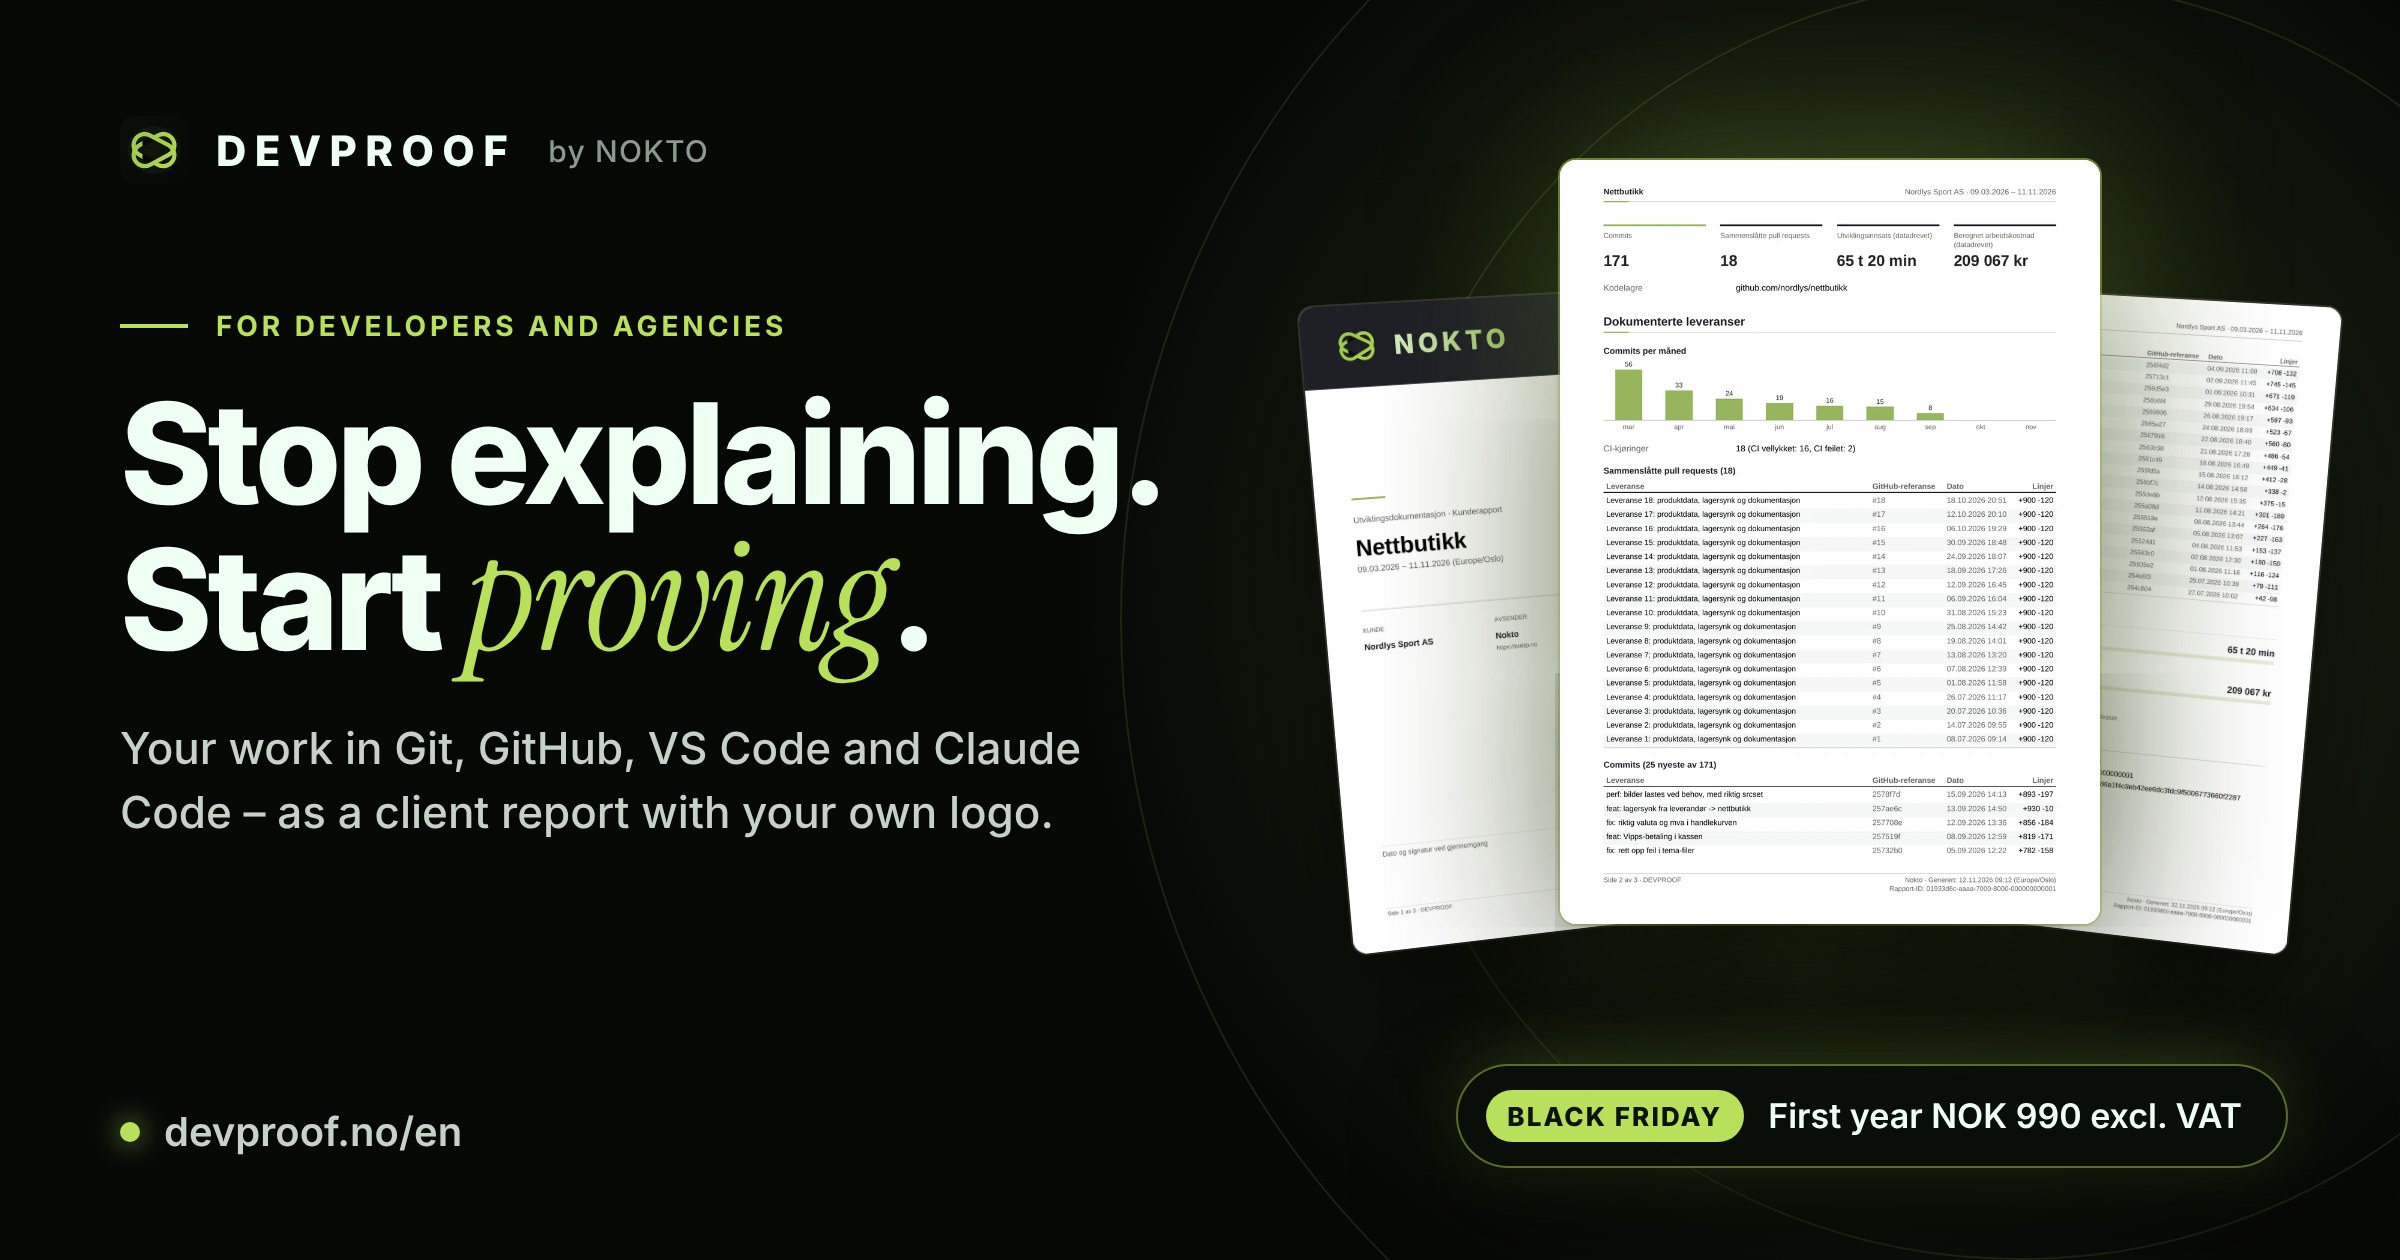
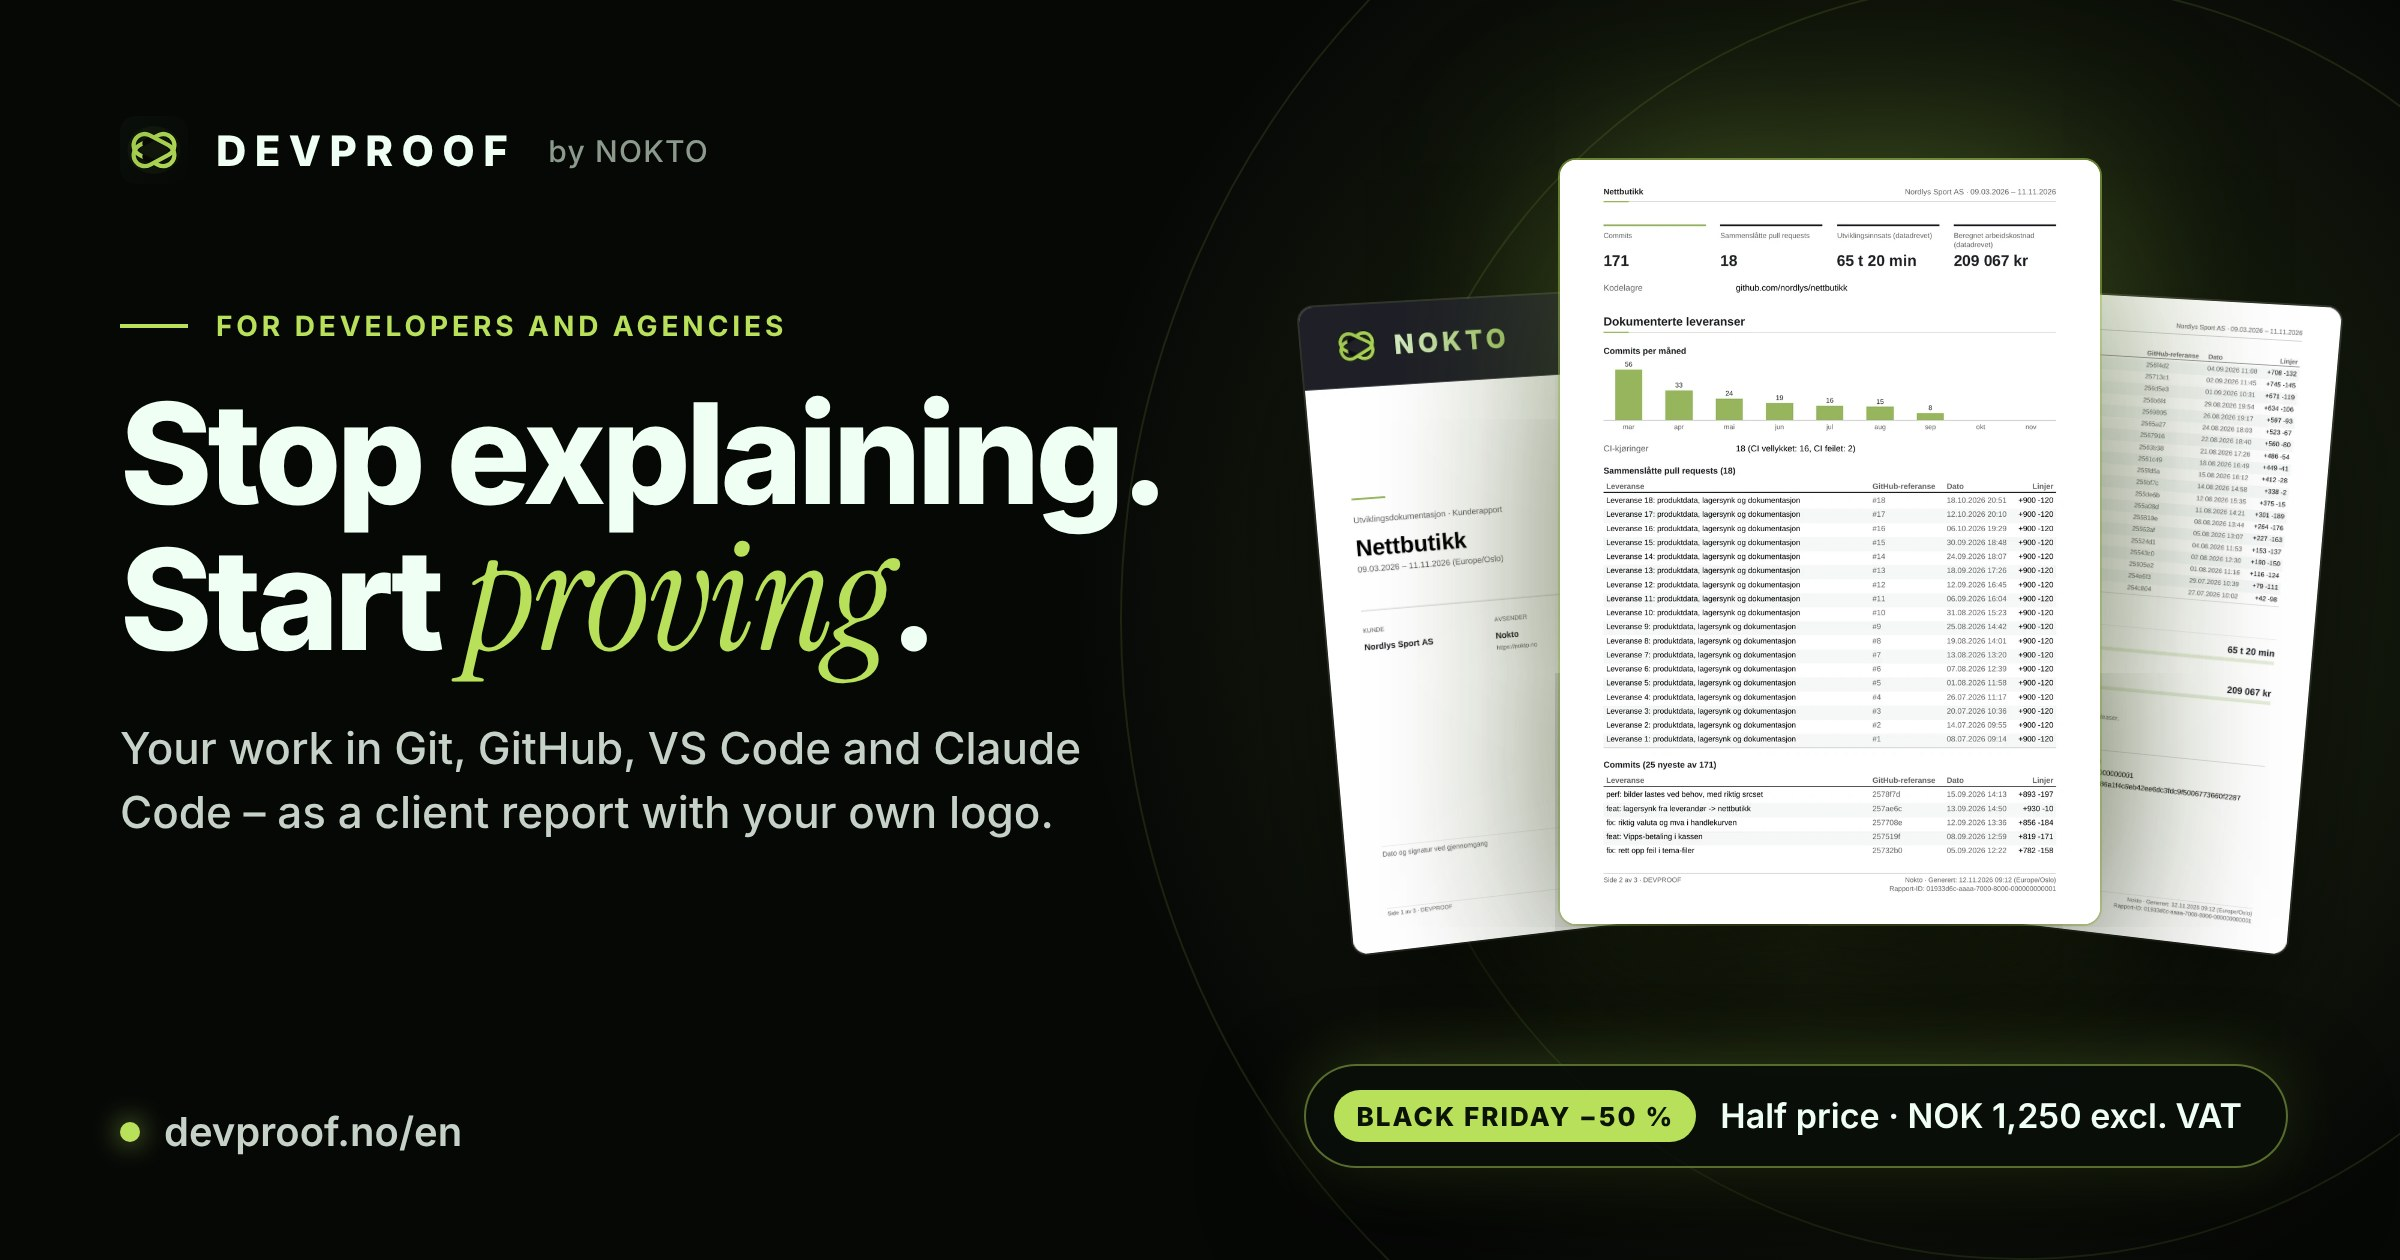
Delebilder med Black Friday halv pris

Changed region(s): [[0.5312, 0.8357, 0.875, 0.9286]]

diff --git a/index.html b/index.html
@@ -12,13 +12,13 @@
 <meta property="og:type" content="website">
 <meta property="og:site_name" content="DEVPROOF">
 <meta property="og:locale" content="nb_NO">
-<meta property="og:image" content="https://devproof.no/assets/og-no.jpg?v=1">
+<meta property="og:image" content="https://devproof.no/assets/og-no.jpg?v=2">
 <meta property="og:image:width" content="2400">
 <meta property="og:image:height" content="1260">
 <meta property="og:image:type" content="image/jpeg">
 <meta property="og:image:alt" content="DEVPROOF – slutt å forklare, begynn å bevise. Kunderapport med din egen logo.">
 <meta name="twitter:card" content="summary_large_image">
-<meta name="twitter:image" content="https://devproof.no/assets/og-no.jpg?v=1">
+<meta name="twitter:image" content="https://devproof.no/assets/og-no.jpg?v=2">
 <meta name="twitter:image:alt" content="DEVPROOF – slutt å forklare, begynn å bevise. Kunderapport med din egen logo.">
 <link rel="alternate" hreflang="nb" href="https://devproof.no/">
 <link rel="alternate" hreflang="en" href="https://devproof.no/en/">

diff --git a/en/index.html b/en/index.html
@@ -12,13 +12,13 @@
 <meta property="og:type" content="website">
 <meta property="og:site_name" content="DEVPROOF">
 <meta property="og:locale" content="en_US">
-<meta property="og:image" content="https://devproof.no/assets/og-en.jpg?v=1">
+<meta property="og:image" content="https://devproof.no/assets/og-en.jpg?v=2">
 <meta property="og:image:width" content="2400">
 <meta property="og:image:height" content="1260">
 <meta property="og:image:type" content="image/jpeg">
 <meta property="og:image:alt" content="DEVPROOF – stop explaining, start proving. Client report with your own logo.">
 <meta name="twitter:card" content="summary_large_image">
-<meta name="twitter:image" content="https://devproof.no/assets/og-en.jpg?v=1">
+<meta name="twitter:image" content="https://devproof.no/assets/og-en.jpg?v=2">
 <meta name="twitter:image:alt" content="DEVPROOF – stop explaining, start proving. Client report with your own logo.">
 <link rel="alternate" hreflang="nb" href="https://devproof.no/">
 <link rel="alternate" hreflang="en" href="https://devproof.no/en/">
